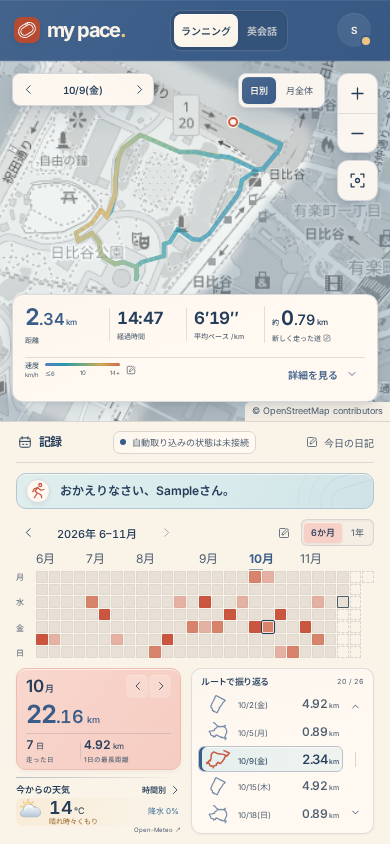
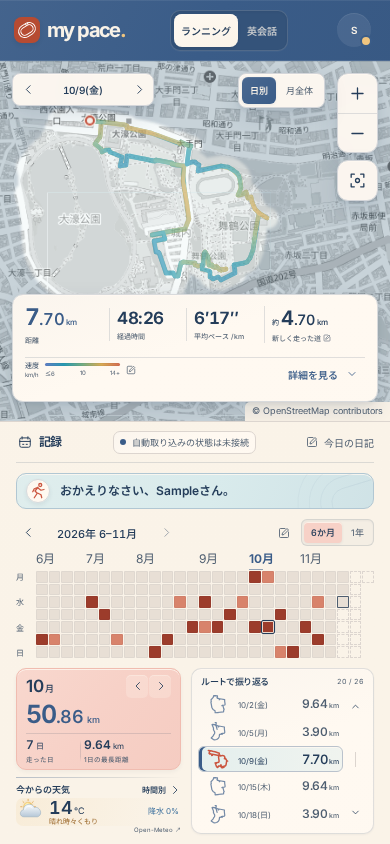
docs: use Fukuoka sample routes in the running gallery

diff --git a/README.md b/README.md
@@ -15,7 +15,7 @@
 
 </details>
 
-画像の記録・経路・天気・表示名は説明用の架空データです。実際の走行履歴ではなく、経路案内にも使えません。
+※ サンプルデータです。
 
 ## 現状
 
